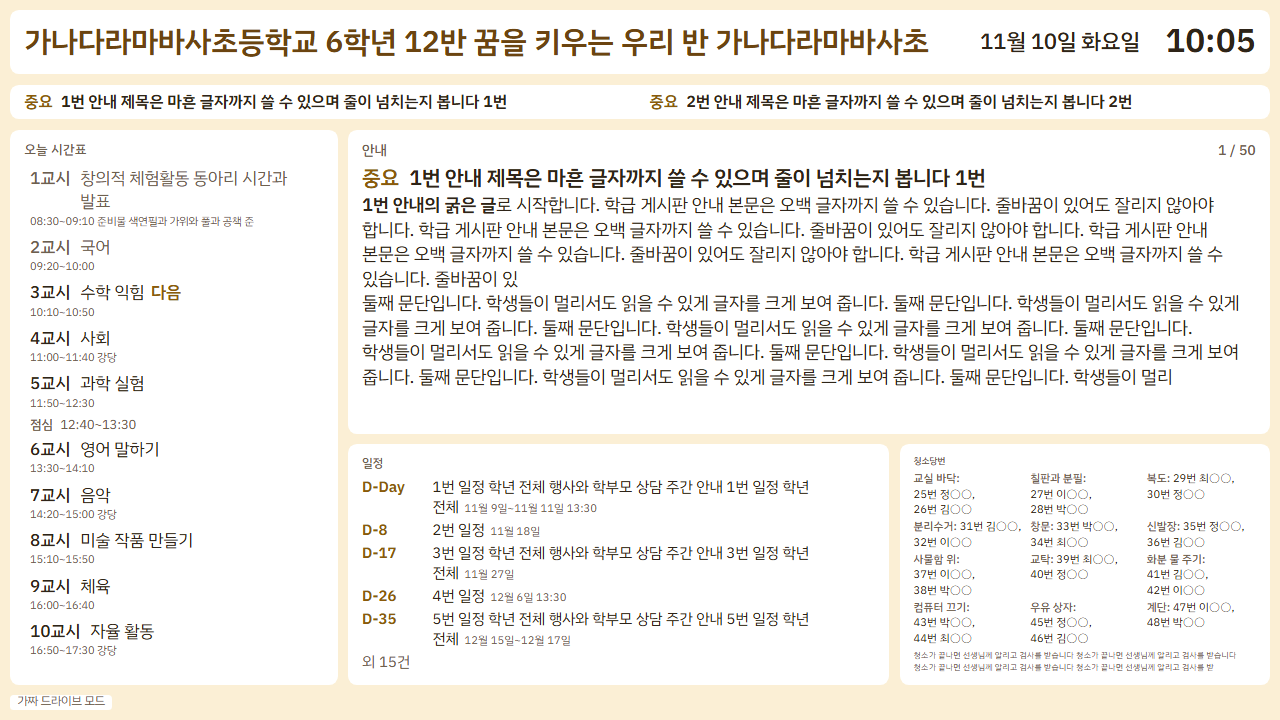
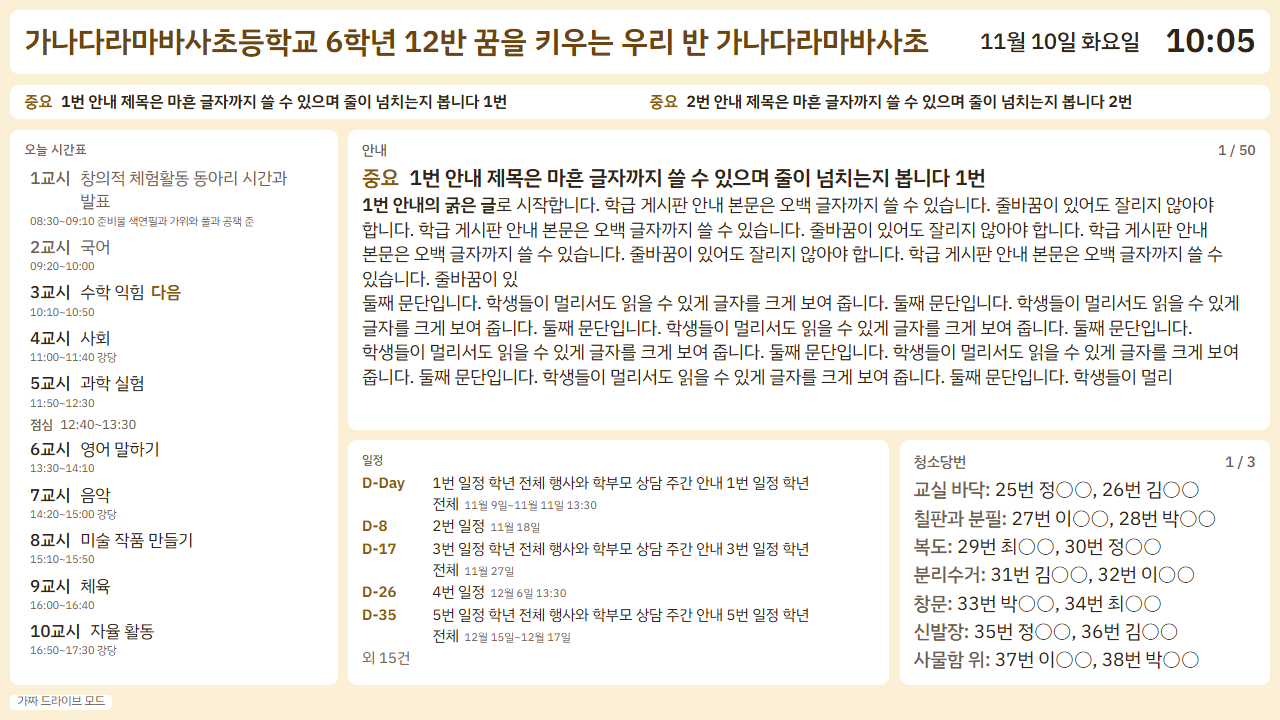
검수 지적 수정: 당번 쪽 넘김(잘림·작은 글자), 가짜 모드는 localhost만, 공유 오류 구분, 공유 중지 때 새 이미지 비공유

Changed region(s): [[0.2812, 0.5806, 1.0, 0.9472]]

diff --git a/js/display/render.js b/js/display/render.js
@@ -140,15 +140,43 @@ function dutyBlock(board, date) {
     el.append(h('div', '', `청소당번은 ${monthDay(d.startDate)}부터`));
     return el;
   }
+  // 메모도 구역과 같은 목록에 넣어, 넘치면 다음 쪽으로 간다.
   el.append(h('div', 'cb-zones', d.zones.map((z) =>
     h('div', '', h('span', 'cb-zone-name', `${z.name}: `),
-      z.students.length ? z.students.map((s, i) => [i ? ', ' : '', h('span', 'cb-nowrap', s.label)]) : '없음'))));
-  if (board.duty.note) el.append(h('div', 'cb-note', board.duty.note));
+      z.students.length ? z.students.map((s, i) => [i ? ', ' : '', h('span', 'cb-nowrap', s.label)]) : '없음')),
+  board.duty.note ? h('div', 'cb-note', board.duty.note) : null));
   return el;
 }
 
+// 당번 칸이 넘치면 글자를 줄이지 않고 들어가는 만큼씩 쪽으로 나눈다. 돌려줌: 쪽 수.
+// 구역 하나도 안 들어가는 쪽만 뒤의 fit 이 글자를 줄인다.
+function pageDuty(el, page) {
+  const list = el.querySelector('.cb-zones');
+  if (!list) return 1;
+  const items = [...list.children];
+  const over = () => el.scrollHeight > el.clientHeight + 1;
+  if (!over()) return 1;
+  const pages = [];
+  let start = 0;
+  for (const it of items) it.hidden = true;
+  items.forEach((it, i) => {
+    it.hidden = false;
+    if (i > start && over()) {
+      for (let j = start; j < i; j++) items[j].hidden = true;
+      pages.push([start, i]);
+      start = i;
+    }
+  });
+  pages.push([start, items.length]);
+  const k = ((page % pages.length) + pages.length) % pages.length;
+  const [a, b] = pages[k];
+  items.forEach((it, i) => { it.hidden = i < a || i >= b; });
+  if (pages.length > 1) el.firstChild.append(h('span', 'cb-page', `${k + 1} / ${pages.length}`));
+  return pages.length;
+}
+
 // ctx: nowMs, page(몇 번째 안내 페이지), imageUrl(fileId → 주소 또는 null), notes(구석 경고 줄), badge(구석 왼쪽 글).
-// 돌려줌: { pageCount, pageSec } 안내 넘기기 예약용.
+// 돌려줌: { pageCount(안내 쪽 수), dutyPages(당번 쪽 수), pageSec } 넘기기 예약용. page 는 계속 늘어나는 수여도 된다.
 export function renderBoard(root, board, ctx = {}) {
   const { nowMs = Date.now(), page = 0, imageUrl = () => null, notes = [], badge = '' } = ctx;
   const d = board.design;
@@ -215,7 +243,10 @@ export function renderBoard(root, board, ctx = {}) {
   if (rest.childElementCount) main.append(rest);
   root.append(main, foot(notes, badge));
 
+  const duty = rest.querySelector('[data-block="duty"]');
+  const dutyPages = duty ? pageDuty(duty, page) : 1;
   for (const el of fits) fit(el, el === title);
   const cur = paged.pages[pageIndex];
-  return { pageCount: paged.pages.length, pageSec: cur ? cur.sec : d.rotateSec };
+  // 안내가 한 쪽이면 당번 쪽은 rotateSec 마다 넘긴다.
+  return { pageCount: paged.pages.length, dutyPages, pageSec: cur && paged.pages.length > 1 ? cur.sec : d.rotateSec };
 }

diff --git a/js/admin/drive.js b/js/admin/drive.js
@@ -89,9 +89,10 @@ async function createFile(meta, part, partType, fields = 'id,name,version,modifi
   return req(`${UPLOAD}?uploadType=multipart&fields=${fields}`, { method: 'POST', headers: { 'Content-Type': type }, body, op: 'write' });
 }
 
+// 'share'(→ shareBlocked 문구)는 공유 만들기에만. 목록 읽기·지우기의 403은 forbidden 이다 (계약 5-3).
 const listPerms = async (fileId) =>
-  (await req(`${API}/${id(fileId)}/permissions?fields=${enc('permissions(id,type,role,allowFileDiscovery)')}`, { op: 'share' })).permissions ?? [];
-const deletePerm = (fileId, permId) => req(`${API}/${id(fileId)}/permissions/${enc(permId)}`, { method: 'DELETE', op: 'share', as: null });
+  (await req(`${API}/${id(fileId)}/permissions?fields=${enc('permissions(id,type,role,allowFileDiscovery)')}`, { op: 'read' })).permissions ?? [];
+const deletePerm = (fileId, permId) => req(`${API}/${id(fileId)}/permissions/${enc(permId)}`, { method: 'DELETE', op: 'write', as: null });
 
 // 계약 5-7: 만들고, 목록으로 확인하고, 안 보이면 2초 뒤 한 번 더.
 async function shareFile(fileId) {
@@ -109,10 +110,10 @@ async function shareFile(fileId) {
   throw unconfirmed();
 }
 
-async function createShared(meta, part, partType) {
+async function createShared(meta, part, partType, share = true) {
   const made = await createFile(meta, part, partType);
   try {
-    await shareFile(made.id);
+    if (share) await shareFile(made.id);
   } catch (e) {
     await deleteFile(made.id).catch(() => {});
     throw e;
@@ -190,8 +191,9 @@ export function createAdminDrive() {
       return { version: String(j.version), modifiedTime: j.modifiedTime };
     },
     async uploadImage(boardId, jpegBlob) {
-      id(boardId);
-      const made = await createShared({ name: imageFileName(), mimeType: 'image/jpeg', appProperties: { classboard: 'image', board: boardId } }, jpegBlob, 'image/jpeg');
+      // 게시판이 '공유 중지됨'이면 새 이미지도 공유하지 않는다. [다시 공유하기]가 모든 이미지를 함께 공유한다.
+      const shared = findShare(await listPerms(boardId)).ok;
+      const made = await createShared({ name: imageFileName(), mimeType: 'image/jpeg', appProperties: { classboard: 'image', board: boardId } }, jpegBlob, 'image/jpeg', shared);
       return { id: made.id };
     },
     readImage: (fileId) => req(mediaUrl(fileId), { as: 'blob' }),

diff --git a/css/board.css b/css/board.css
@@ -104,7 +104,7 @@ html.cb-nocursor, html.cb-nocursor * { cursor: none; }
 .cb-zones { display: grid; grid-template-columns: repeat(auto-fill, minmax(calc(13 * var(--k)), 1fr)); gap: calc(0.2 * var(--k)) calc(1 * var(--k)); }
 .cb-nowrap { white-space: nowrap; }
 .cb-zone-name { color: var(--b-muted); font-weight: var(--w-medium); }
-.cb-note { color: var(--b-muted); font-size: calc(var(--s-small) * var(--k)); }
+.cb-note { grid-column: 1 / -1; color: var(--b-muted); font-size: calc(var(--s-small) * var(--k)); }
 
 /* 가운데 문구 (연결 중, 주소 오류, 설정 필요) */
 .cb-center { flex: 1 1 auto; display: grid; place-content: center; text-align: center; gap: calc(1 * var(--u)); }
@@ -114,6 +114,7 @@ html.cb-nocursor, html.cb-nocursor * { cursor: none; }
 /* 아래 구석 문구: 칸과 겹치지 않게 맨 아래 줄을 따로 둔다 */
 .cb-foot { flex: 0 0 auto; display: flex; justify-content: space-between; align-items: flex-end; gap: 1em; font-size: calc(var(--s-corner) * var(--u)); line-height: 1.3; }
 .cb-foot:empty { display: none; }
+/* 경고·배지 글자는 배경 이미지·덮개 위에 바로 두지 않고 불투명 surface 띠 위에 둔다 (warn/surface, muted/surface 는 checkPalette 가 4.5:1 이상 검사) */
 .cb-foot > div { background: var(--b-surface); padding: 0 0.6em; border-radius: calc(0.3 * var(--u)); }
 .cb-badge { color: var(--b-muted); }
 .cb-warns { margin-left: auto; color: var(--b-warn); font-weight: var(--w-medium); text-align: right; }

diff --git a/tests/fake-drive.test.js b/tests/fake-drive.test.js
@@ -80,6 +80,20 @@ test('이미지: 공유되어 올라가고 board 표시, 삭제하면 사라짐'
   await assert.rejects(d.readImage(img.id), (e) => e.kind === 'notFound');
 });
 
+test('이미지: 게시판이 공유 중지면 새 이미지도 공유하지 않고, 다시 공유하면 함께 공유됨 (L2)', async () => {
+  const { d } = await setup();
+  const { id } = await d.createBoard(defaultBoard('x', clock));
+  await d.unshare(id);
+  const img = await d.uploadImage(id, new Blob(['jpeg']));
+  assert.equal(await d.shareState(img.id), 'stopped');
+  await assert.rejects(d.asSource().getImage(img.id), (e) => e.kind === 'notFound');
+  // [다시 공유하기]와 같은 순서: 이미지들 → 본 파일
+  for (const f of await d.listImages(id)) await d.share(f.id);
+  await d.share(id);
+  assert.equal(await d.shareState(img.id), 'shared');
+  assert.equal(await (await d.asSource().getImage(img.id)).text(), 'jpeg');
+});
+
 test('이력: appDataFolder, 공유 없음, 5개만 rev 내림차순', async () => {
   const { d } = await setup();
   const { id } = await d.createBoard(defaultBoard('x', clock));

diff --git a/tests/drive-common.test.js b/tests/drive-common.test.js
@@ -41,10 +41,12 @@ test('isFakeMode', () => {
   assert.equal(isFakeMode({ hostname: 'localhost', search: '' }), true);
   assert.equal(isFakeMode({ hostname: '127.0.0.1', search: '?f=x' }), true);
   assert.equal(isFakeMode({ hostname: '[::1]', search: '' }), true);
-  assert.equal(isFakeMode({ hostname: 'board.localhost', search: '' }), true);
+  assert.equal(isFakeMode({ hostname: 'localhost', search: '?dev=1' }), true);
+  assert.equal(isFakeMode({ hostname: 'board.localhost', search: '' }), false);
   assert.equal(isFakeMode({ hostname: 'localhost', search: '?dev=0' }), false);
   assert.equal(isFakeMode({ hostname: '176-oss.github.io', search: '' }), false);
-  assert.equal(isFakeMode({ hostname: '176-oss.github.io', search: '?dev=1' }), true);
+  assert.equal(isFakeMode({ hostname: '176-oss.github.io', search: '?dev=1' }), false);
+  assert.equal(isFakeMode({ hostname: '176-oss.github.io', search: '?dev=1&seed=worst' }), false);
   assert.equal(isFakeMode({ hostname: 'localhost.evil.com', search: '' }), false);
 });
 

diff --git a/js/core/drive-common.js b/js/core/drive-common.js
@@ -79,8 +79,7 @@ export function mediaUrl(fileId, key = '') {
   return `${DOWNLOAD}/${checkedId(fileId)}?alt=media${keyPart(key)}`;
 }
 
+// 배포 주소에서는 ?dev=1 이어도 켜지지 않는다 (가짜 데이터가 배포 출처에 써지지 않게).
 export function isFakeMode({ hostname = '', search = '' } = {}) {
-  const dev = new URLSearchParams(search).get('dev');
-  const local = ['localhost', '127.0.0.1', '[::1]'].includes(hostname) || hostname.endsWith('.localhost');
-  return (local && dev !== '0') || dev === '1';
+  return ['localhost', '127.0.0.1', '[::1]'].includes(hostname) && new URLSearchParams(search).get('dev') !== '0';
 }

diff --git a/js/core/fake-drive.js b/js/core/fake-drive.js
@@ -117,9 +117,10 @@ export function createFakeDrive({ store, now = () => Date.now() }) {
     },
     async uploadImage(boardId, blob) {
       await gate('uploadImage');
+      const shared = findShare((await file(boardId)).f.perms).ok; // 진짜처럼: 게시판이 공유 중지면 공유하지 않음
       const made = await create({ name: imageFileName(), mimeType: 'image/jpeg', appProperties: { classboard: 'image', board: boardId } }, blob);
       try {
-        await shareFile(made.id);
+        if (shared) await shareFile(made.id);
       } catch (e) {
         await remove(made.id);
         throw e;

diff --git a/js/display/main.js b/js/display/main.js
@@ -57,12 +57,13 @@ function notes() {
   return out;
 }
 
-function schedulePage({ pageCount, pageSec }) {
-  if (pageCount <= 1) { clearTimeout(pageTimer); pageTimer = 0; return; }
+function schedulePage({ pageCount, dutyPages = 1, pageSec }) {
+  if (Math.max(pageCount, dutyPages) <= 1) { clearTimeout(pageTimer); pageTimer = 0; return; }
   if (pageTimer) return;
   pageTimer = setTimeout(() => {
     pageTimer = 0;
-    state.page = (state.page + 1) % pageCount;
+    // 안내와 당번 쪽 수가 달라 render 가 각각 나머지를 구한다.
+    state.page++;
     draw();
   }, pageSec * 1000);
 }

diff --git a/sw.js b/sw.js
@@ -1,5 +1,5 @@
 // 표시 화면 서비스 워커 (계약 8절). SHELL 파일이나 config.js 를 바꾸는 커밋은 VERSION 을 반드시 올린다.
-const VERSION = '20261108-1';
+const VERSION = '20261109-1';
 const CACHE = 'classboard:shell:' + VERSION;
 const SHELL = [
   './',
